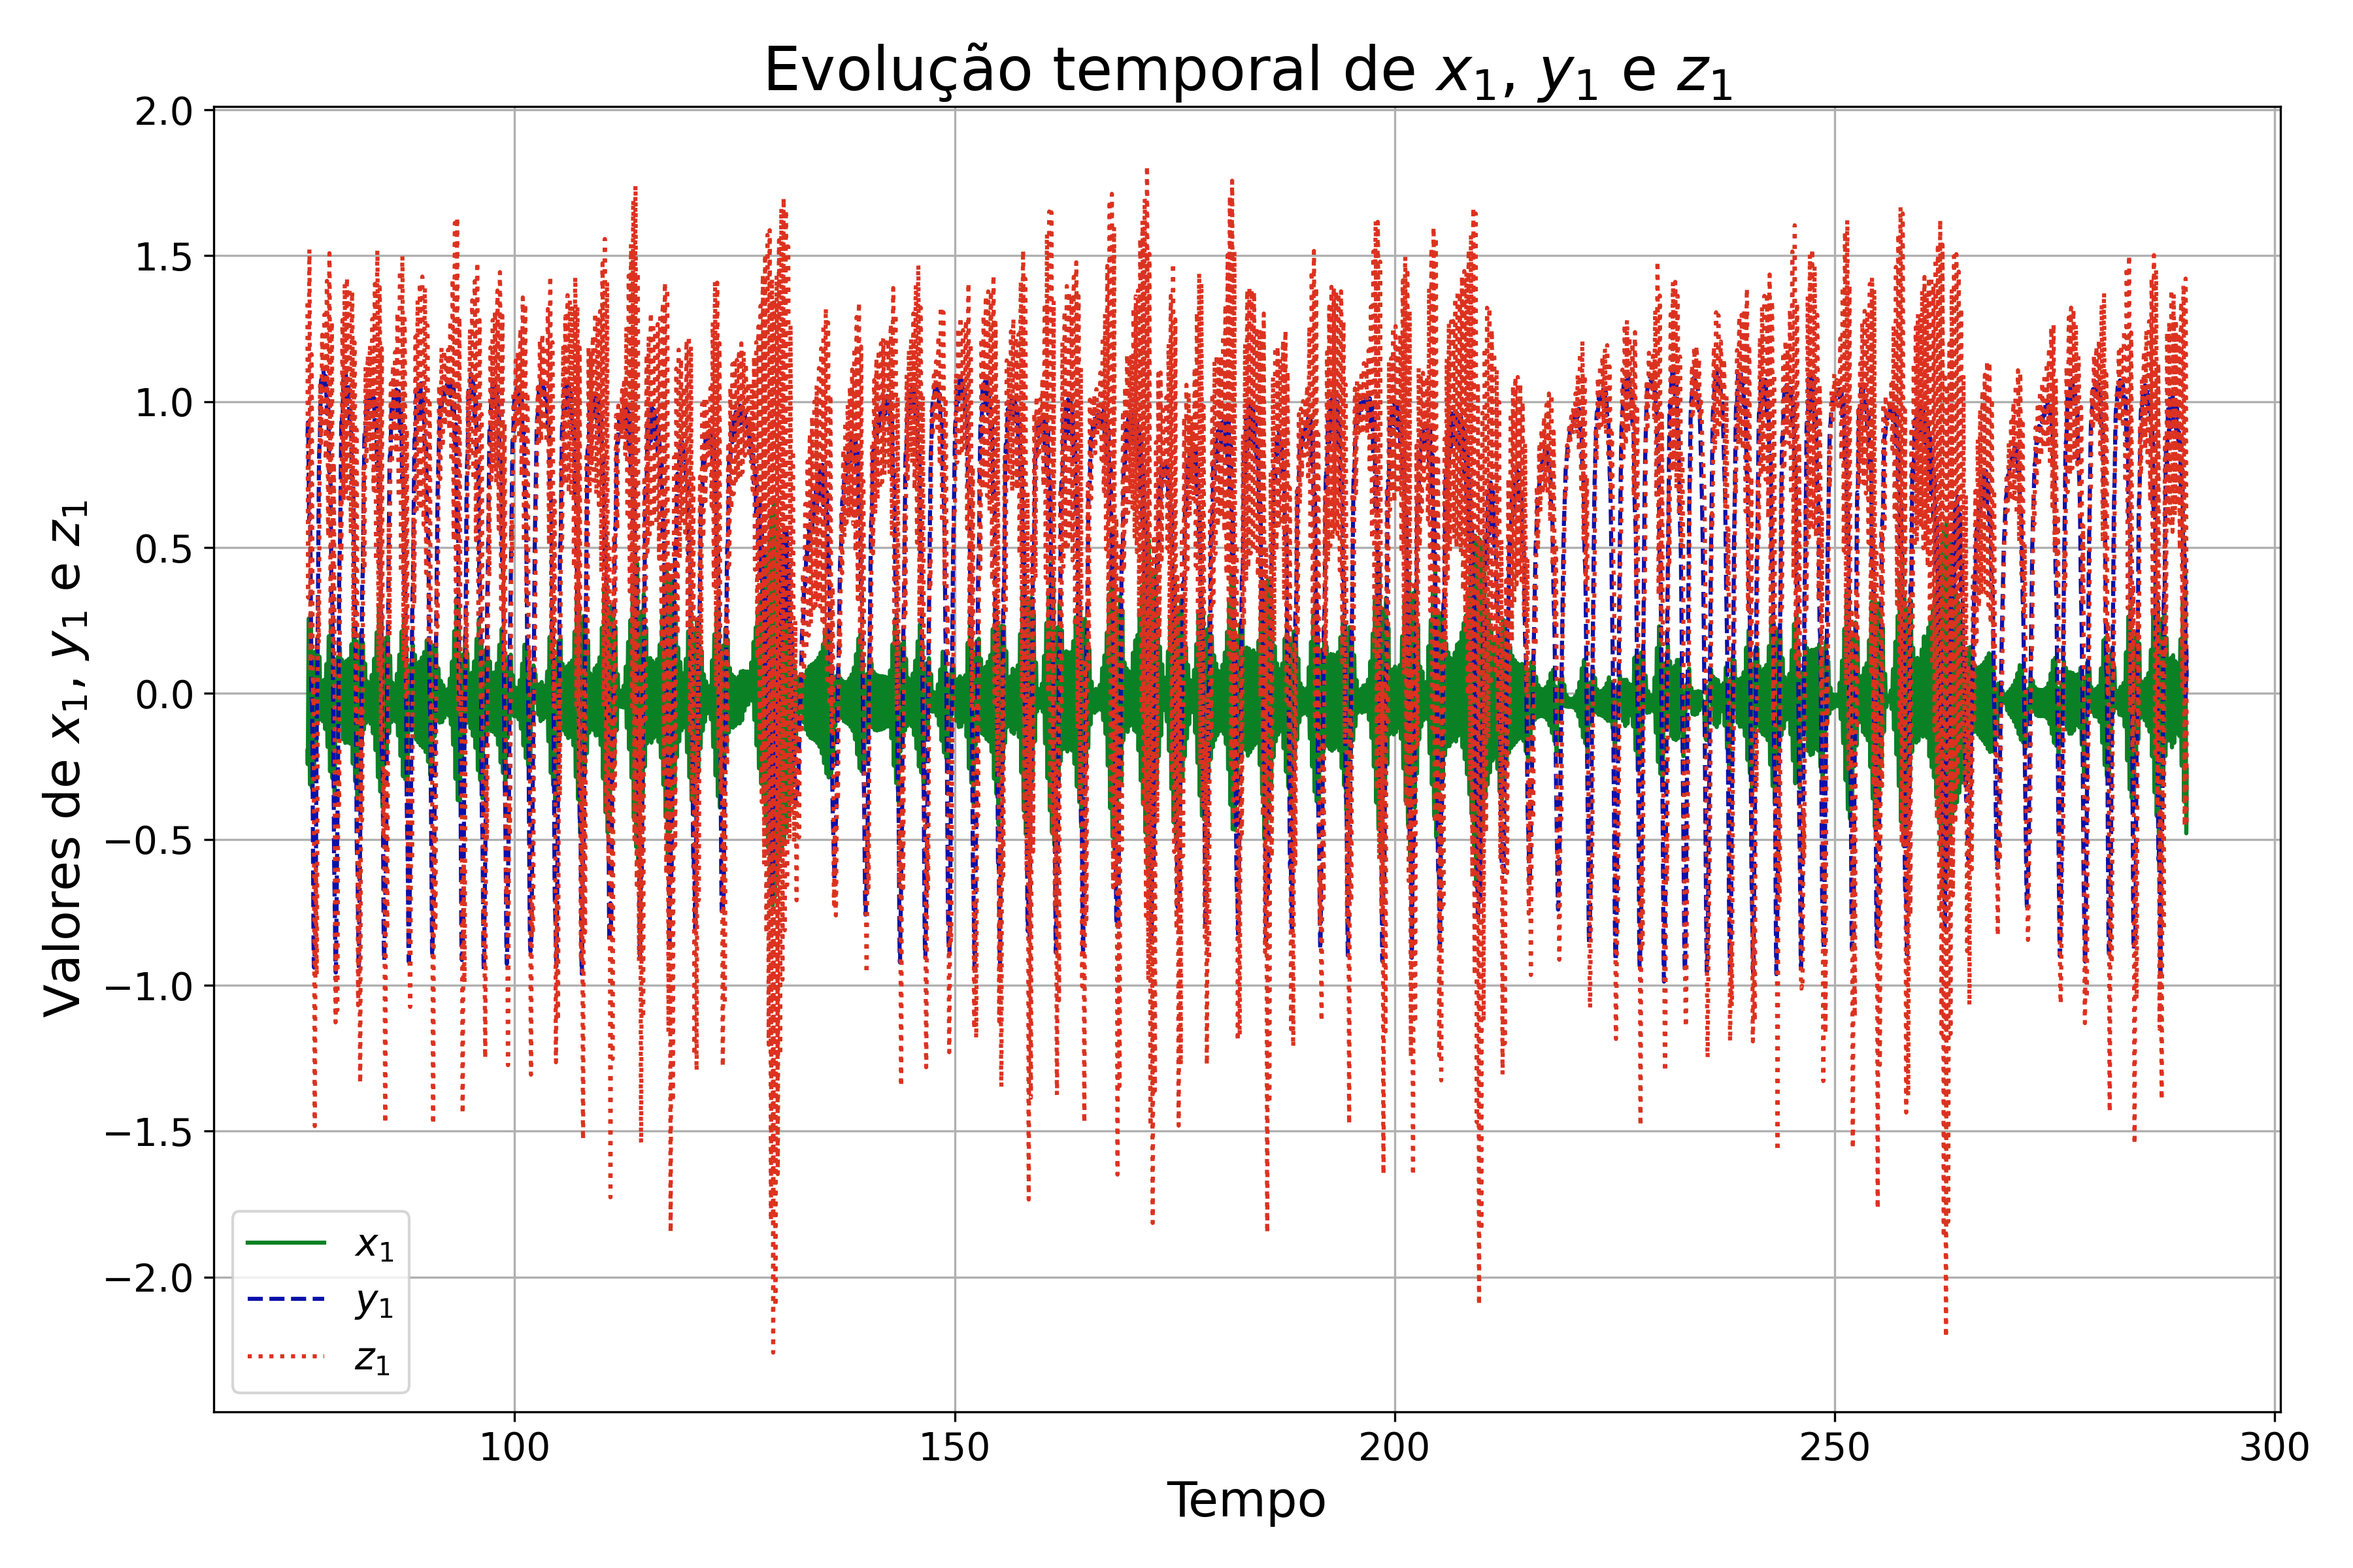
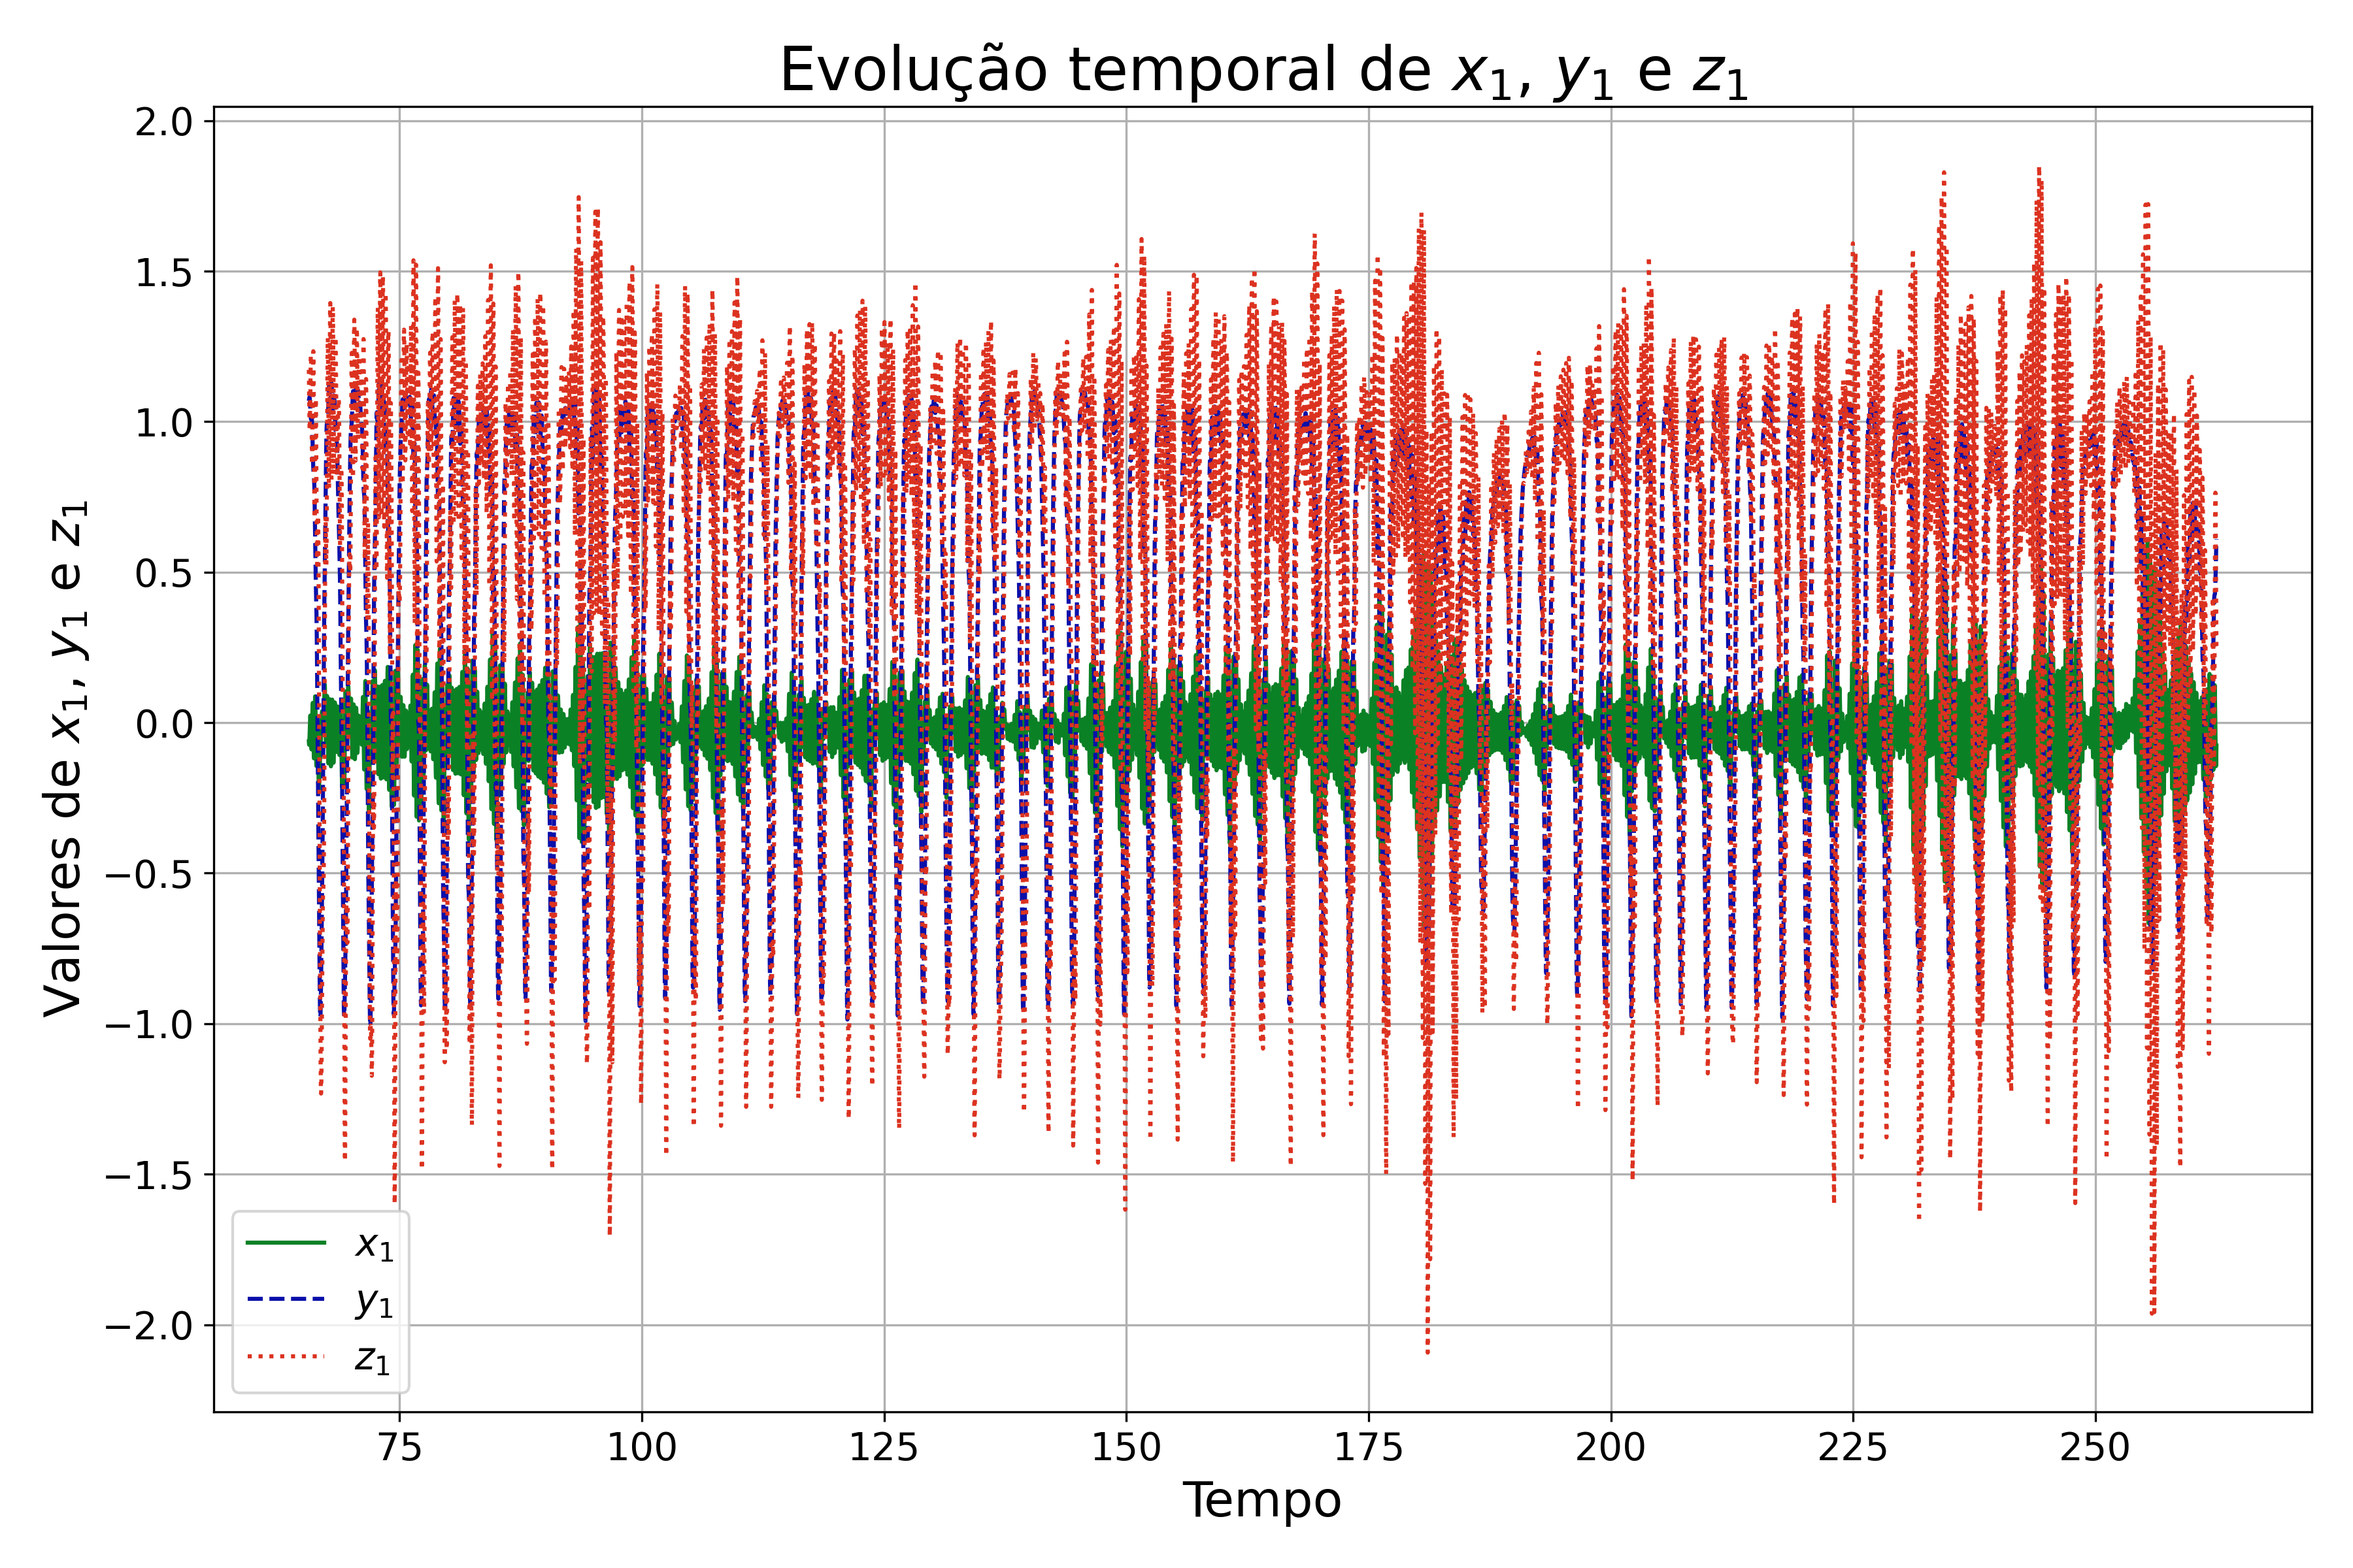
versão baseada em passos

diff --git a/06_LORENZ_80/pe_model_simulation.py b/06_LORENZ_80/pe_model_simulation.py
@@ -1,0 +1,168 @@
+"""
+Simulação do modelo PE (Primitive Equations) do sistema Lorenz 80.
+Gera dados de simulação e salva no diretório data/.
+"""
+
+import numpy as np
+from scipy.integrate import solve_ivp
+import pandas as pd
+from pathlib import Path
+from parameters import a, b, c, h, f, nu_0, kappa_0, g_0
+from initial_conditions import x0, y0, z0
+from plot import gerar_todos_graficos
+
+# Fator de escala temporal
+TIMESCALE_FACTOR = 8.0
+
+# Parâmetros de simulação
+N_STEPS = int(5e5)  
+DT = 4.2e-3 
+
+# Criar diretório de saída
+DATA_DIR = Path("data")
+DATA_DIR.mkdir(parents=True, exist_ok=True)
+
+
+def cyc(i):
+    """Retorna índices cíclicos para i, i+1, i+2 (mod 3)"""
+    return i, (i + 1) % 3, (i + 2) % 3
+
+
+def pe_model(t, u):
+    """
+    Modelo PE (Primitive Equations) completo.
+    
+    Args:
+        t: tempo
+        u: vetor de estado [x1, x2, x3, y1, y2, y3, z1, z2, z3]
+    
+    Returns:
+        Derivadas temporais du/dt
+    """
+    x = u[0:3]
+    y = u[3:6]
+    z = u[6:9]
+    dx = np.zeros(3)
+    dy = np.zeros(3)
+    dz = np.zeros(3)
+
+    for i in range(3):
+        i_, j, k = cyc(i)
+        
+        # Equação para x
+        dx[i] = (
+            a[i] * b[i] * x[j] * x[k]
+            - c * (a[i] - a[k]) * x[j] * y[k]
+            + c * (a[i] - a[j]) * y[j] * x[k]
+            - 2 * c**2 * y[j] * y[k]
+            - nu_0 * (a[i] ** 2) * x[i]
+            + a[i] * y[i]
+            - a[i] * z[i]
+        ) / a[i]
+        
+        # Equação para y
+        dy[i] = (
+            -a[k] * b[k] * x[j] * y[k]
+            - a[j] * b[j] * y[j] * x[k]
+            + c * (a[k] - a[j]) * y[j] * y[k]
+            - a[i] * x[i]
+            - nu_0 * (a[i] ** 2) * y[i]
+        ) / a[i]
+        
+        # Equação para z
+        dz[i] = (
+            -b[k] * x[j] * (z[k] - h[k])
+            - b[j] * (z[j] - h[j]) * x[k]
+            + c * y[j] * (z[k] - h[k])
+            - c * (z[j] - h[j]) * y[k]
+            + g_0 * a[i] * x[i]
+            - kappa_0 * a[i] * z[i]
+            + f[i]
+        )
+    
+    return np.concatenate([dx, dy, dz])
+
+
+def pe_simulate(x0, y0, z0, n_steps, dt):
+    """
+    Simula o modelo PE.
+    
+    Args:
+        x0: condições iniciais para x [x1, x2, x3]
+        y0: condições iniciais para y [y1, y2, y3]
+        z0: condições iniciais para z [z1, z2, z3]
+        n_steps: número de passos de tempo
+        dt: tamanho do passo temporal
+    
+    Returns:
+        DataFrame com os resultados da simulação
+    """
+    # Condição inicial completa
+    initial_u = np.concatenate([x0, y0, z0])
+    
+    # Tempo final e pontos de avaliação
+    t_final = n_steps * dt
+    t_eval = np.linspace(0.0, t_final, n_steps + 1)
+    t_span = (0.0, t_final)
+    
+    # Calcular equivalente em dias
+    days_equivalent = t_final / TIMESCALE_FACTOR
+    
+    # Resolver o sistema de EDOs
+    sol = solve_ivp(
+        pe_model, 
+        t_span, 
+        initial_u,
+        t_eval=t_eval,
+        method="RK45", 
+        atol=1e-8, 
+        rtol=1e-6
+    )
+    
+    print(f"Integração concluída. Pontos gerados: {len(sol.t)}")
+
+    # Converter tempo de volta para dias
+    t_out = sol.t / TIMESCALE_FACTOR
+    
+    # Extrair componentes
+    x, y, z = sol.y[0:3].T, sol.y[3:6].T, sol.y[6:9].T
+
+    # Criar DataFrame
+    df = pd.DataFrame({
+        "time": t_out,
+        "x1": x[:, 0], "x2": x[:, 1], "x3": x[:, 2],
+        "y1": y[:, 0], "y2": y[:, 1], "y3": y[:, 2],
+        "z1": z[:, 0], "z2": z[:, 1], "z3": z[:, 2],
+    })
+    
+    return df
+
+
+if __name__ == "__main__":
+    
+    df_pe = pe_simulate(x0, y0, z0, N_STEPS, DT)
+    
+    # Salvar resultados
+    output_file = DATA_DIR / "pe_model_passos.csv"
+    df_pe.to_csv(output_file, index=False)
+    
+    print(f"\nResultados salvos em: {output_file}")
+    
+    # Limpeza de dados
+    limpeza_de_dados = input("\nDeseja eliminar 25% dos dados? (s/n): ").strip().lower()
+    if limpeza_de_dados == 's':
+        print("Limpando dados...")
+        df = pd.read_csv(output_file)
+        n_remove = int(len(df) * 0.25)
+        df_filtrado = df.iloc[n_remove:].copy()
+        df_filtrado.to_csv(output_file, index=False)
+        df_pe = df_filtrado
+        print(f"Limpeza concluída. Foram removidos ({n_remove/len(df)*100:.1f}% dos dados).")
+    elif limpeza_de_dados == 'n':
+        print("Dados mantidos sem alteração.")
+
+    # Gerar gráficos
+    print("\nGerando gráficos...")
+    model_type = 1  # PE model
+    graficos = gerar_todos_graficos(df_pe, model_type)
+    print("\nSimulação concluída!")
